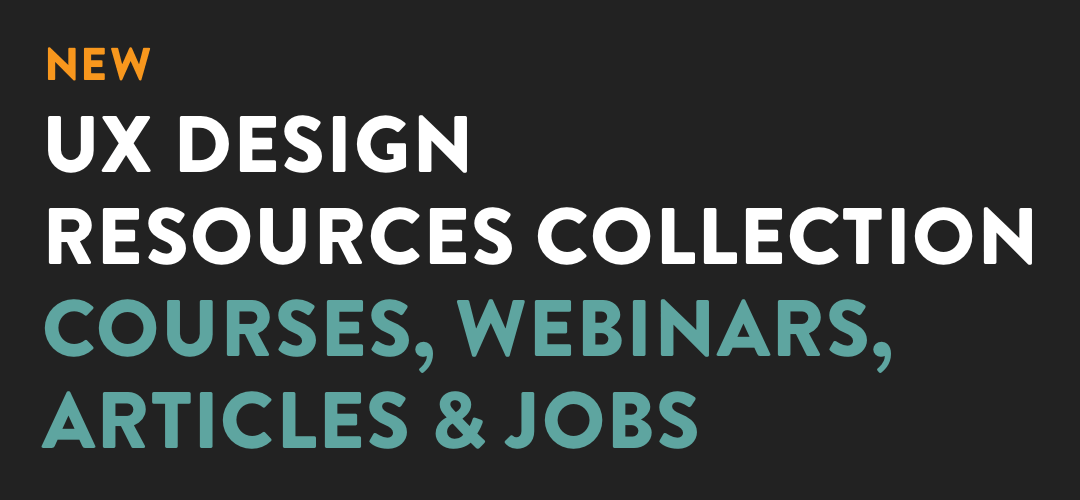
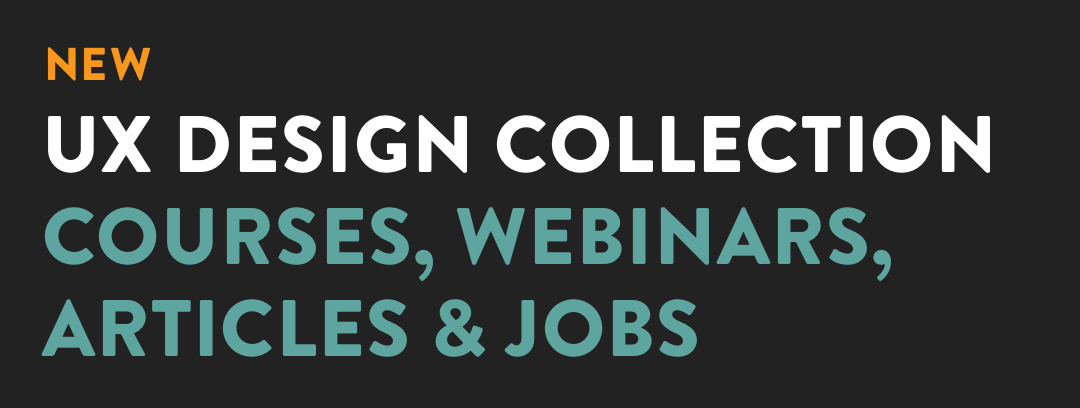
Update UX Design Landing Page email comp
- Add new artwork
- Add copy revision

Changed region(s): [[0.0306, 0.2059, 0.9778, 0.9118], [0.0306, 0.0882, 0.1528, 0.2059]]

diff --git a/gym-emails/ux-design-landing-page-email/index.html b/gym-emails/ux-design-landing-page-email/index.html
@@ -54,7 +54,7 @@ table td {padding: 0;}
           </p>
           <div class="leading-21" style="font-family: monospace, monospace; font-size: 21px; line-height: 21px; padding: 0; margin: 0;"><br></div>
           <a href="" target="_blank" title="Explore Our UX Design Collection" style="display: block; text-decoration: none; outline: 0; cursor: pointer;">
-           <img alt="New UX Design Resources Collection" src="img/gym-banner-email-ux-design-2x.png" width="540" height="250" style="display: block; font-family: 'Helvetica Neue', Helvetica, Arial, 'Droid Sans', sans-serif; font-size: 24px; font-weight: bold; color: #222222; vertical-align: middle; width: 100%; max-width: 100%; height: auto; border: 1px solid #f8971d; -ms-interpolation-mode: bicubic;">
+           <img alt="New UX Design Resources Collection" src="img/gym-banner-email-ux-design-2x.png" width="540" height="204" style="display: block; font-family: 'Helvetica Neue', Helvetica, Arial, 'Droid Sans', sans-serif; font-size: 24px; font-weight: bold; color: #222222; vertical-align: middle; width: 100%; max-width: 100%; height: auto; border: 1px solid #f8971d; -ms-interpolation-mode: bicubic;">
           </a>
           <div class="leading-21" style="font-family: monospace, monospace; font-size: 21px; line-height: 21px; padding: 0; margin: 0;"><br></div>
           <p style="font-family: 'Helvetica Neue', Helvetica, Arial, 'Droid Sans', sans-serif; font-weight: normal; font-size: 16px; line-height: 22px; color: #222222; padding: 0; margin: 0;">
@@ -97,7 +97,7 @@ table td {padding: 0;}
           </table>
           <div class="leading-17" style="font-family: monospace, monospace; font-size: 17px; line-height: 17px; padding: 0; margin: 0;"><br></div>
           <p style="font-family: 'Helvetica Neue', Helvetica, Arial, 'Droid Sans', sans-serif; font-weight: normal; font-size: 16px; line-height: 22px; color: #222222; padding: 0; margin: 0;">
-          Whatever your learning style is, we&#8217;ve got you covered &#8212; anytime, anywhere. Ready to become a UXpert?
+          Whatever your learning style is, we&#8217;ve got you covered &#8212; anytime, anywhere.
           </p>
           <table class="cta" width="100%" align="center" cellpadding="0" cellspacing="0" border="0" bgcolor="#fffffe" style="background-color: #fffffe; border-spacing: 0;" role="presentation">
             <tr>
@@ -108,7 +108,7 @@ table td {padding: 0;}
                       <a href="https://thegymnasium.com/ux-design?utm_source=eloqua&utm_medium=email&utm_campaign=AQ_NA_GYM-ux-design-landing-page&utm_content=080619?elqTrack=true" target="_blank" style="display: inline-block; color: #fffffe; text-decoration: none; outline: 0; cursor: pointer;">
                         <span class="chunky-nbsp;" style="font-size: 15px; line-height: 15px; font-family: Courier, monospace;">&nbsp;</span>
                            <div style="line-height: 16px; margin: 0 32px;">
-                            <b style="font-weight: bold; font-size: 20px; line-height: 26px; font-family: 'Helvetica Neue', Helvetica, Arial, 'Droid Sans', sans-serif; color: #fffffe; vertical-align: middle;">Explore Our UX Design Collection</b>
+                            <b style="font-weight: bold; font-size: 20px; line-height: 26px; font-family: 'Helvetica Neue', Helvetica, Arial, 'Droid Sans', sans-serif; color: #fffffe; vertical-align: middle;">Become a UXpert</b>
                           </div>
                         <span class="chunky-nbsp;" style="font-size: 21px; line-height: 21px; font-family: Courier, monospace;">&nbsp;</span>
                       </a>
